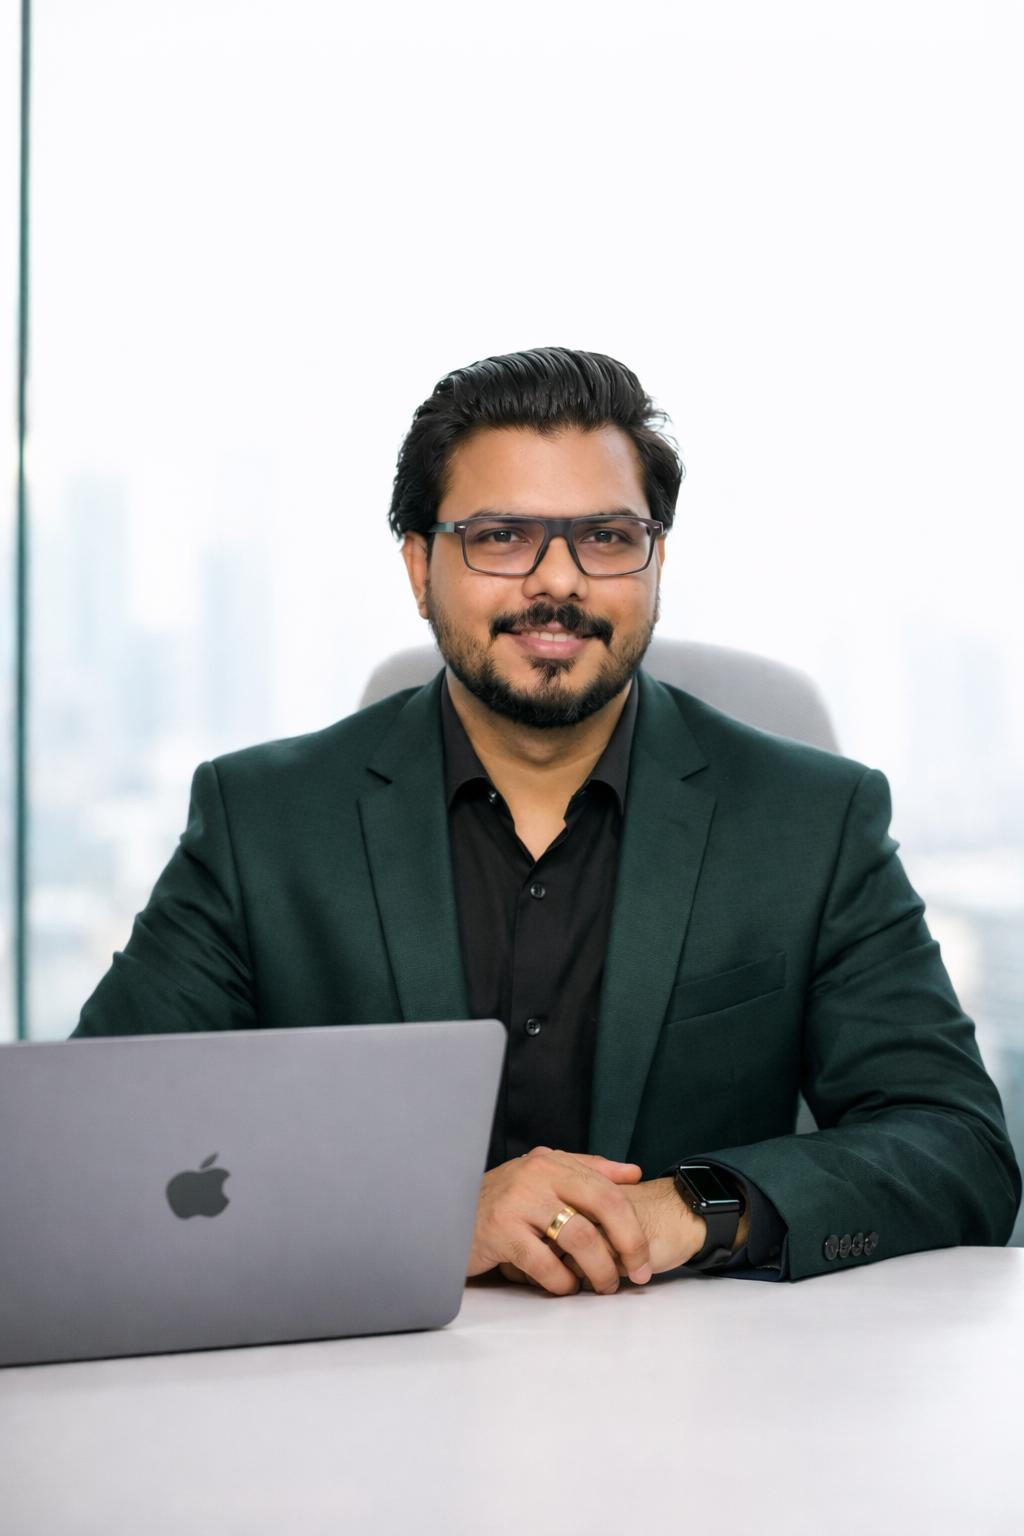
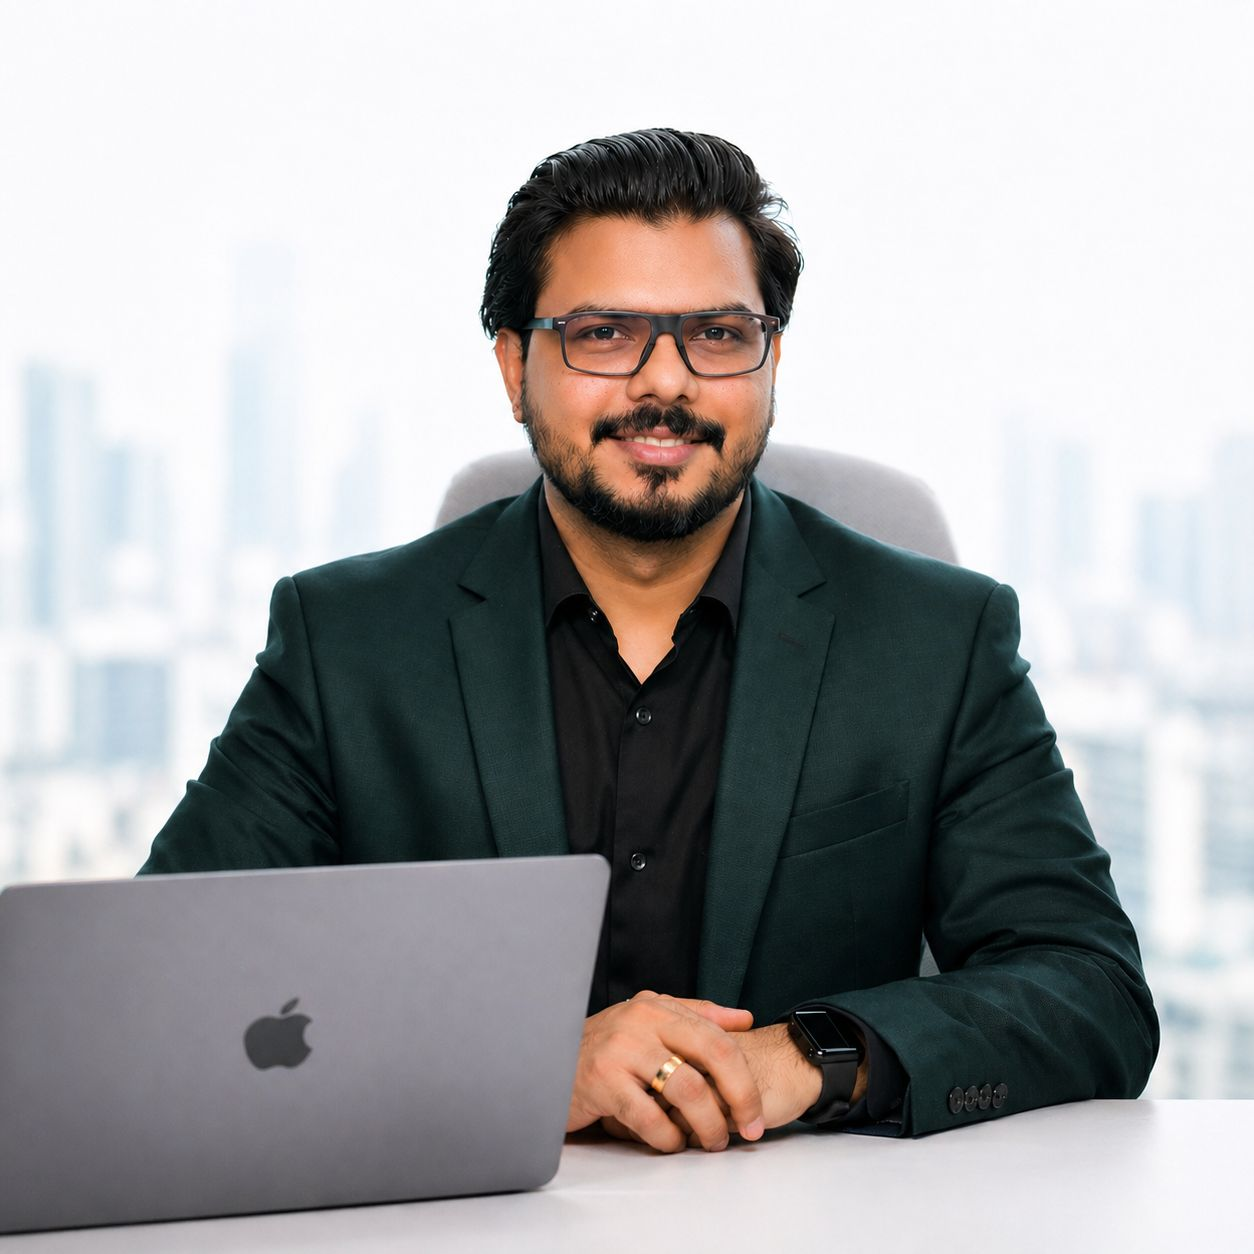
Apply client content updates and process refinements
- Hero: new headline "Get the Right Mortgage in the UAE with Confidence" + new CTAs (Check Eligibility, Get Free Consultation)
- About section: 3-paragraph client copy + Mission as quote block
- Process: 4-step rail (Consult / Eligibility / Submit / Approval) with 4th-dot fill animation
- About founder: 3+ Years building Marker Finance (calculated from 2023)
- Replace founder photo with updated portrait

diff --git a/index.html b/index.html
@@ -56,11 +56,11 @@
   <section class="hero">
     <div class="container">
       <div class="hero-card">
-        <h1>Compare UAE<br/>mortgage options &amp;<br/>secure <span class="hero-accent">competitive rates</span></h1>
-        <p>Through trusted UAE bank partners, our advisors compare home loan options across every major lender — so you walk away with a mortgage that fits your profile.</p>
+        <h1>Get the Right<br/>Mortgage in the UAE<br/>with <span class="hero-accent">Confidence</span></h1>
+        <p>Marker Finance Mortgage Broker helps UAE residents, non-residents and investors compare mortgage options across leading banks and secure the most suitable financing for their property goals.</p>
         <div class="hero-actions">
-          <a href="#contact" class="btn btn-primary">Apply Now</a>
-          <a href="#services" class="btn btn-ghost">Explore Solutions</a>
+          <a href="calculator.html" class="btn btn-primary">Check Eligibility</a>
+          <a href="contact.html" class="btn btn-ghost">Get Free Consultation</a>
         </div>
       </div>
     </div>
@@ -421,9 +421,11 @@
     <!-- Hero -->
     <div class="about-hero">
       <div class="about-hero-left">
-        <span class="about-eyebrow">● About Marker Finance</span>
-        <h2>UAE <em>mortgage</em><br/>specialists you can trust.</h2>
-        <p>Established in 2023, Marker Finance is a Dubai DED licensed mortgage broker. We help UAE residents, non-residents and investors compare home loan options and secure suitable mortgage solutions through trusted bank partners — making the complex feel simple, every step of the way.</p>
+        <span class="about-eyebrow">● About Us</span>
+        <h2>A Dubai-based <em>mortgage</em><br/>advisory, built for the UAE.</h2>
+        <p>Marker Finance Mortgage Broker is a Dubai-based mortgage advisory firm established in 2023. We specialize in helping clients secure residential and commercial property financing across the UAE.</p>
+        <p>We work closely with leading banks and financial institutions to offer tailored mortgage solutions based on each client's profile — whether salaried, self-employed, resident or non-resident.</p>
+        <p>Our approach is simple: clear advice, strong bank relationships and end-to-end support from application to approval.</p>
 
         <div class="about-metrics">
           <div class="about-metric">
@@ -431,8 +433,8 @@
             <span class="about-metric-label">Established<br/>in the UAE</span>
           </div>
           <div class="about-metric">
-            <span class="about-metric-num">18<sup>+</sup></span>
-            <span class="about-metric-label">UAE bank<br/>partners</span>
+            <span class="about-metric-num">UAE</span>
+            <span class="about-metric-label">Residential &amp;<br/>commercial focus</span>
           </div>
           <div class="about-metric">
             <span class="about-metric-num">DED</span>
@@ -440,7 +442,7 @@
           </div>
         </div>
 
-        <a href="#contact" class="btn btn-light about-cta">Learn more about us →</a>
+        <a href="contact.html" class="btn btn-light about-cta">Learn more about us →</a>
       </div>
 
       <div class="about-hero-right">
@@ -453,8 +455,8 @@
         </div>
         <div class="about-quote">
           <svg class="about-quote-mark" viewBox="0 0 40 32" fill="currentColor"><path d="M10 32c-5.5 0-10-4.5-10-10C0 12 6 4 16 0l2 4C10 8 6 14 8 18h2c5.5 0 10 4.5 10 10S15.5 32 10 32zm20 0c-5.5 0-10-4.5-10-10 0-10 6-18 16-22l2 4c-8 4-12 10-10 14h2c5.5 0 10 4.5 10 10s-4.5 4-10 4z"/></svg>
-          <p>Finance should open doors — not gate-keep them.</p>
-          <span class="about-quote-by">— Our Founding Principle</span>
+          <p>To simplify the mortgage process and become one of the most trusted mortgage brokers in the UAE.</p>
+          <span class="about-quote-by">— Our Mission</span>
         </div>
       </div>
     </div>
@@ -529,10 +531,10 @@
     <div class="process-head">
       <div class="process-head-left">
         <span class="process-eyebrow">● Simplified Process</span>
-        <h2>Funding in <span class="process-accent">three simple</span> steps</h2>
+        <h2>Approved in <span class="process-accent">four simple</span> steps</h2>
       </div>
       <div class="process-head-right">
-        <p>Funding is frictionless — apply online, receive a same-day decision and sign your contract in minutes.</p>
+        <p>From first call to final disbursement — we walk every client through the four stages without surprises.</p>
         <a href="#contact" class="btn btn-primary process-cta">
           <span>Get started</span>
           <svg viewBox="0 0 24 24" fill="none" stroke="currentColor" stroke-width="2" stroke-linecap="round" stroke-linejoin="round"><path d="M5 12h14M13 5l7 7-7 7"/></svg>

diff --git a/styles.css b/styles.css
@@ -1789,6 +1789,12 @@ button{font:inherit;cursor:pointer;border:none;background:none}
   border-color: transparent;
   transition-delay: 1.4s;
 }
+.process-rail.in-view .process-rail-stop:nth-child(4) .process-rail-dot{
+  background: linear-gradient(135deg, #05448b, #1c73d6);
+  color: #fff;
+  border-color: transparent;
+  transition-delay: 2.0s;
+}
 .process-rail-label{
   font-size: 11px;
   font-weight: 600;

diff --git a/about.html b/about.html
@@ -278,8 +278,8 @@
         </div>
         <div class="ab-founder-stats">
           <div>
-            <strong>15<sup>+</sup></strong>
-            <span>Years in UAE finance</span>
+            <strong>3<sup>+</sup></strong>
+            <span>Years building<br/>Marker Finance</span>
           </div>
           <div>
             <strong>UAE</strong>
